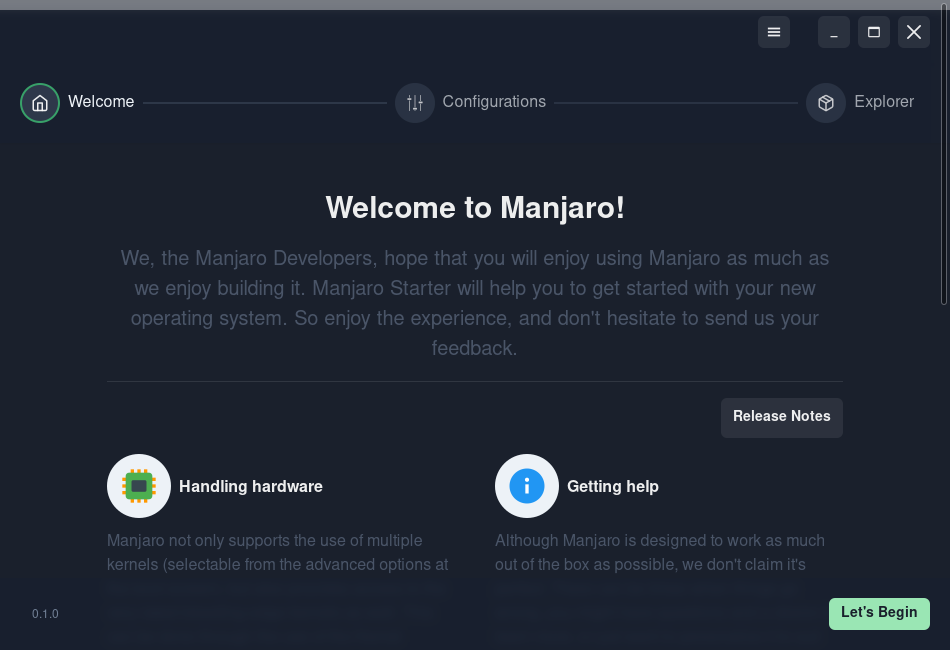
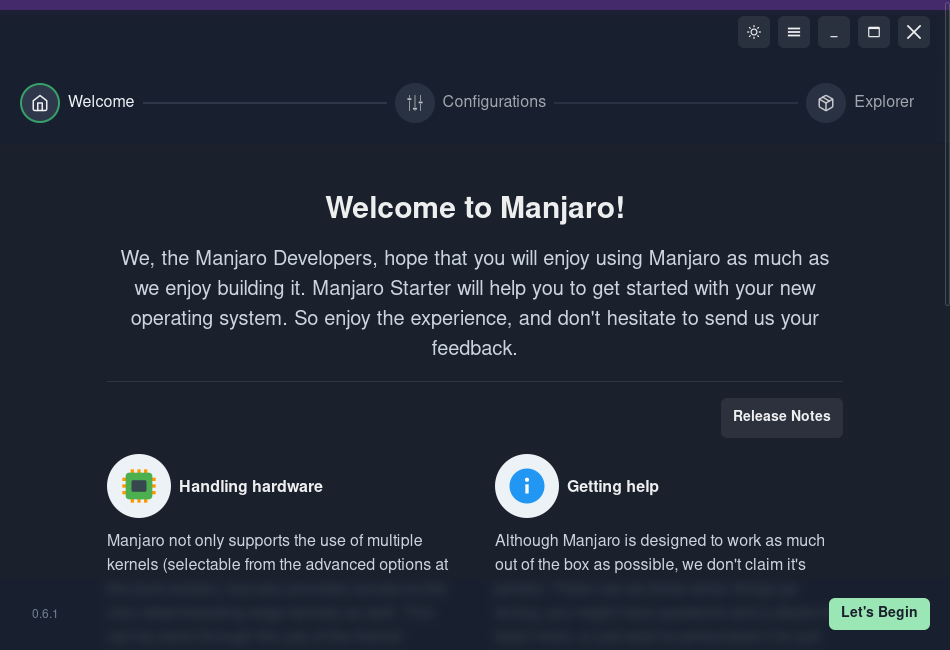
docs: ✏ updated screens

diff --git a/public/index.html b/public/index.html
@@ -33,7 +33,7 @@
             top: 0;
             left: 0;
             right: 0;
-            background-color: rgba(236, 236, 236, 0.4);
+            background-color: #44296B;
             z-index: 999;
         }
     </style>

diff --git a/README.md b/README.md
@@ -36,7 +36,6 @@
 <img src="./Screenshots/mainscreen2.png" width="400"/>
 <img src="./Screenshots/systemDetails.png" width="400"/>
 <img src="./Screenshots/packages.png" width="400"/>
-<img src="./Screenshots/result.png" width="400"/>
 </p>
 
 ## Features
